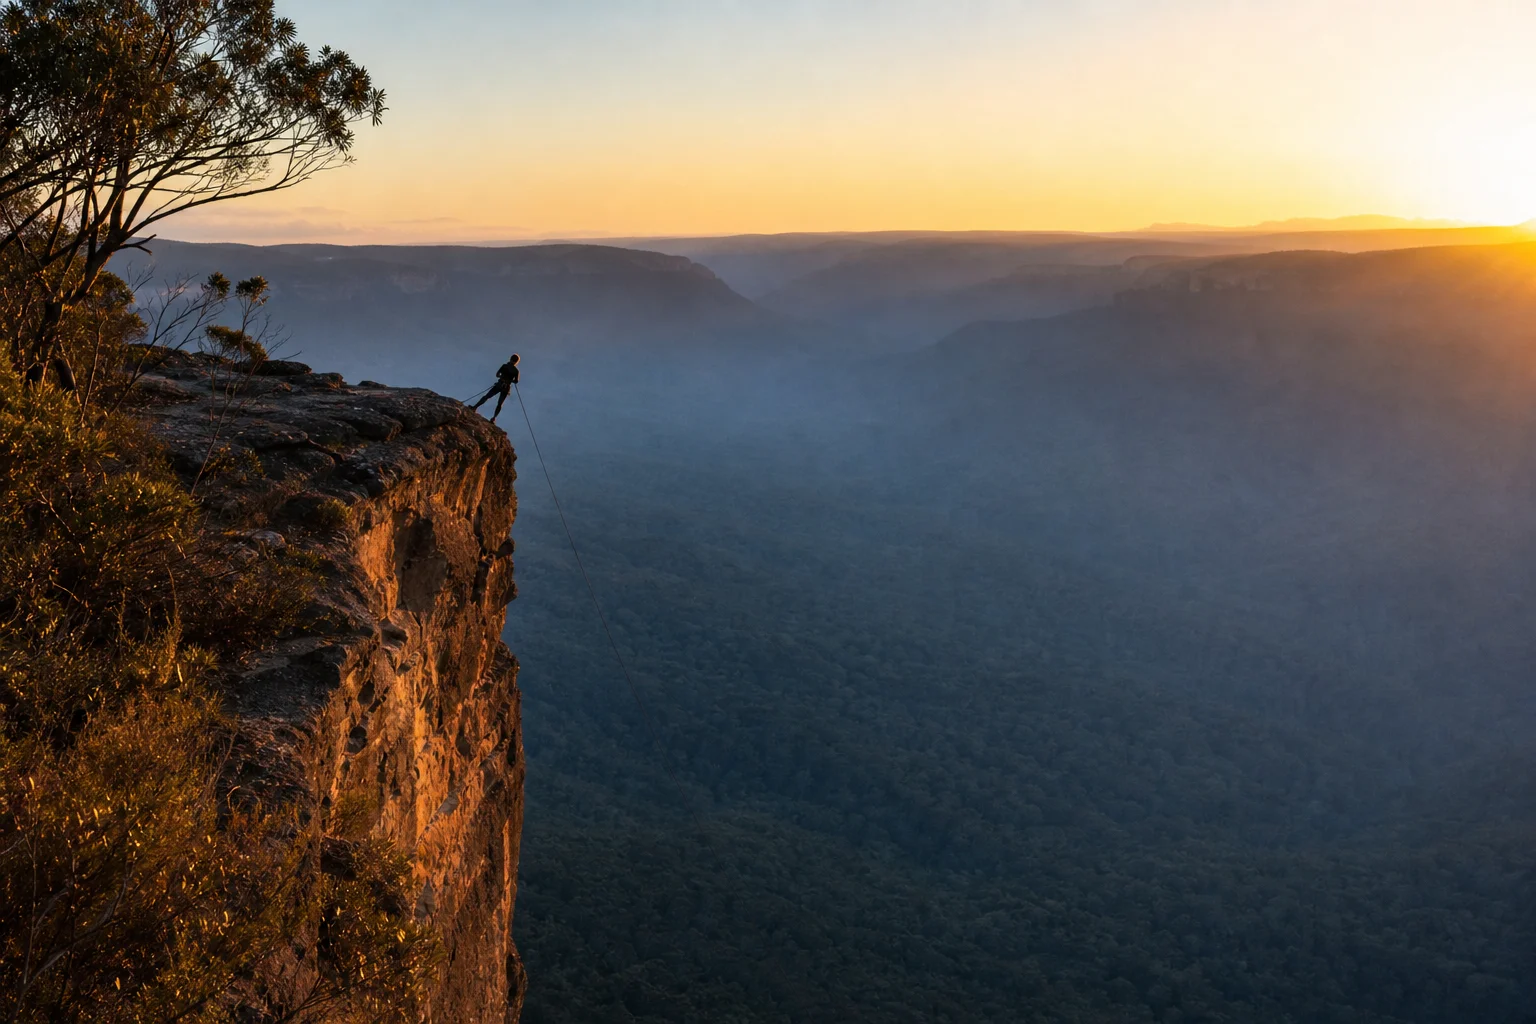
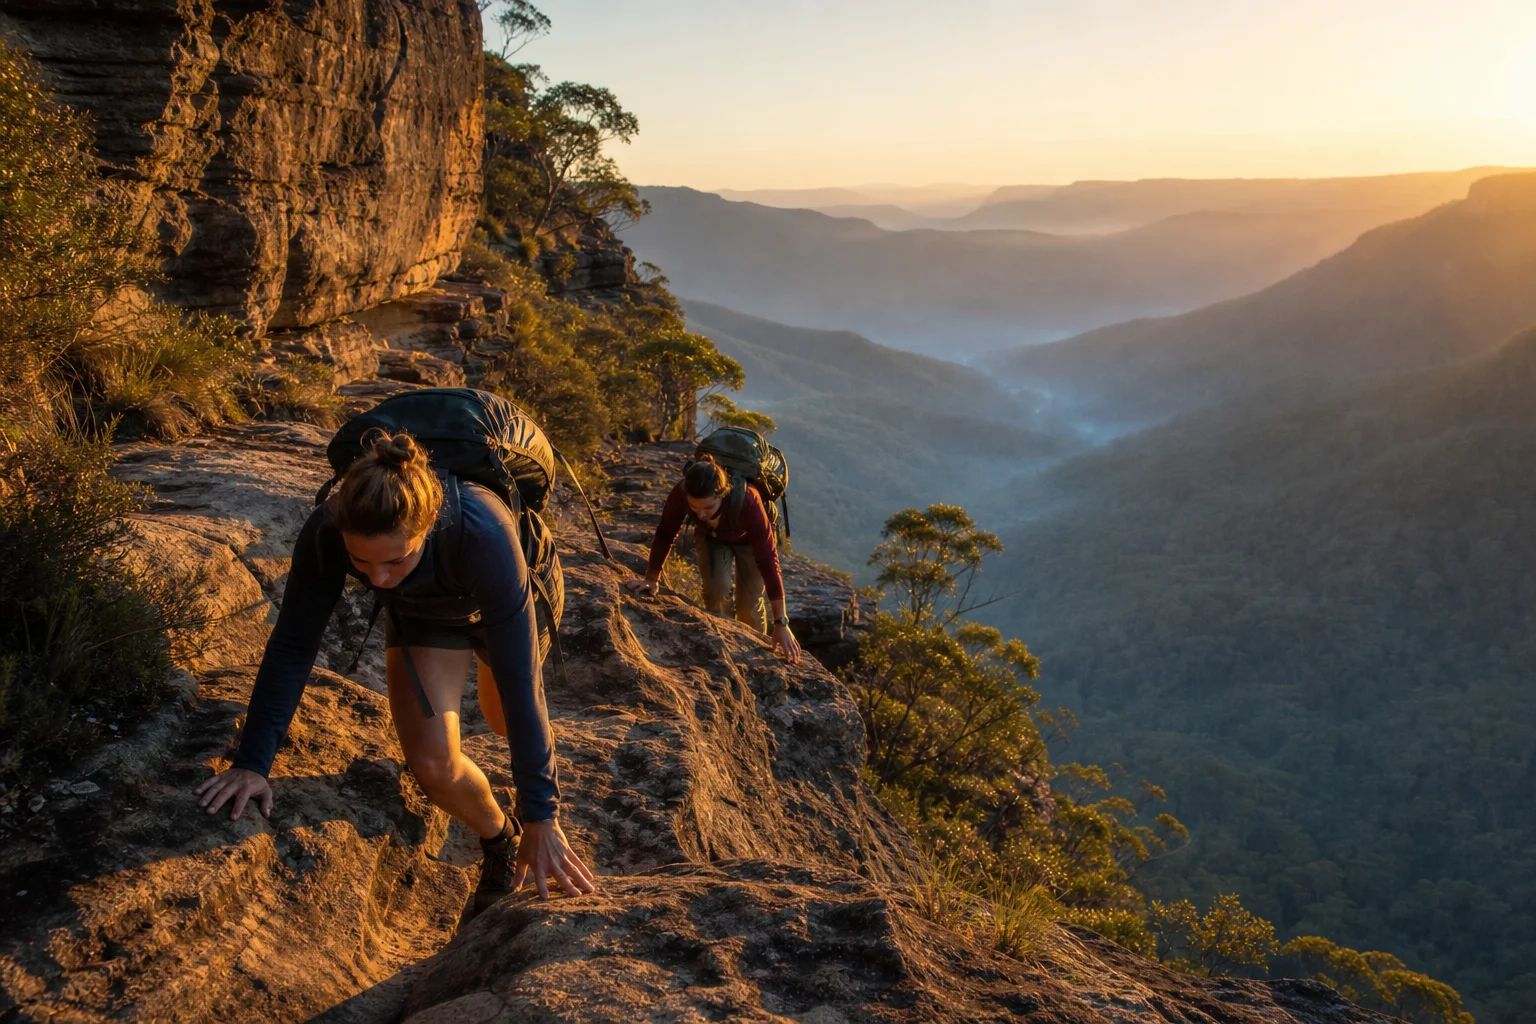
fix(content): hero QA pass — 3 images regenerated, 2 alt strings corrected
Adversarial review of all 27 generated heroes (one reviewer per 1-2 images, judged
at the 1140px they actually ship at, explicitly told NOT to lean-reject). Result:
21 PASS, 5 MINOR, 1 FAIL. Every finding below was confirmed by hand before acting.

Regenerated (real defects, both visible to a climbing audience):
- best-adventure-travel-destinations: the abseil rope ran ruler-straight at ~20 deg
  off plumb, trailing out over the valley away from the face, on a level horizon
  with a verifiably vertical cliff -- so not camera roll and not wind. A hanging
  load hangs plumb. Recomposed as scramblers on the escarpment edge: same exposure,
  no rope to render wrong, and a better fit for a destinations roundup anyway.
- se-queensland-bouldering: the climber had ONE LEG. The shorts ended in a sealed
  hem with bare ground visible behind, ~150x120px on the central subject. Horizontal
  roof positions leave limbs projecting with little to anchor them; recomposed
  upright with both feet planted on footholds.
- family-adventure-holidays: an orphan bare forearm floated behind the left child's
  shoulder. Recomposed with two swimmers instead of three -- less overlap, fewer
  spare limbs.

Alt text corrected (image fine, description wasn't -- these are a11y defects):
- kangaroo-point: alt claimed "abseiling and top-roping" when nobody in the frame
  is descending and no rope or harness is visible on either climber.
[…]

diff --git a/src/content/blog/kangaroo-point-rock-climbing-the-complete-guide-to-brisbanes-iconic-cliffs.md b/src/content/blog/kangaroo-point-rock-climbing-the-complete-guide-to-brisbanes-iconic-cliffs.md
@@ -3,7 +3,7 @@ title: "Kangaroo Point Rock Climbing: The Complete Guide to Brisbane's Iconic Cl
 description: "Kangaroo Point Cliffs are Brisbane's floodlit inner-city crag on the Brisbane River, managed by Brisbane City Council. Free access, night climbing, abseiling and safety."
 pubDate: "2026-07-26"
 heroImage: "/images/2026/07/kangaroo-point-rock-climbing-the-complete-guide-to-brisbanes-iconic-cliffs.webp"
-heroAlt: "Climbers abseiling and top-roping the floodlit Kangaroo Point cliffs at night, city lights across the river"
+heroAlt: "Climbers on the floodlit Kangaroo Point cliffs at night, with walkers on the riverside path and city lights across the water"
 draft: false
 tags: ["rock climbing", "queensland"]
 featured: false

diff --git a/src/content/blog/se-queensland-bouldering-a-guide-to-the-best-problems-near-brisbane.md b/src/content/blog/se-queensland-bouldering-a-guide-to-the-best-problems-near-brisbane.md
@@ -3,7 +3,7 @@ title: "SE Queensland Bouldering: A Guide to the Best Problems Near Brisbane"
 description: "Outdoor bouldering near Brisbane: Toohey Forest, White Rock and the Granite Belt around Girraween. Areas, grades, access rules and pad-and-spotter safety."
 pubDate: "2026-07-26"
 heroImage: "/images/2026/07/se-queensland-bouldering-a-guide-to-the-best-problems-near-brisbane.webp"
-heroAlt: "A boulderer pulling through a low overhang above a crash pad while a spotter stands ready"
+heroAlt: "A boulderer reaching for a high hold on a granite boulder, both feet on the rock, a crash pad and spotter below"
 draft: false
 tags: ["rock climbing", "queensland"]
 featured: false

diff --git a/src/content/blog/best-adventure-travel-destinations-in-australia-the-pacific-2026.md b/src/content/blog/best-adventure-travel-destinations-in-australia-the-pacific-2026.md
@@ -3,7 +3,7 @@ title: "Best Adventure Travel Destinations in Australia & the Pacific (2026)"
 description: "A regional roundup of the best adventure travel destinations across Australia & the Pacific: signature activities, who each suits, and when to go."
 pubDate: "2026-07-26"
 heroImage: "/images/2026/07/best-adventure-travel-destinations-in-australia-the-pacific-2026.webp"
-heroAlt: "An abseiler stepping backwards over the lip of an Australian sandstone cliff above a hazy valley"
+heroAlt: "Two walkers scrambling along a rocky sandstone escarpment edge at sunrise above a valley filled with blue haze"
 draft: false
 tags: ["adventure travel", "australia"]
 featured: false

diff --git a/src/content/blog/best-time-to-visit-australia-the-pacific-for-adventure-activities.md b/src/content/blog/best-time-to-visit-australia-the-pacific-for-adventure-activities.md
@@ -3,7 +3,7 @@ title: "Best Time to Visit Australia & the Pacific for Adventure Activities"
 description: "When to visit Australia & the Pacific for adventure: dry vs wet tropics, four-season south, and the South Pacific cyclone season, by month and region."
 pubDate: "2026-07-26"
 heroImage: "/images/2026/07/best-time-to-visit-australia-the-pacific-for-adventure-activities.webp"
-heroAlt: "Two climbers on a sunlit Australian sandstone cliff in cool clear autumn conditions"
+heroAlt: "A climber on a sunlit Australian sandstone cliff in clear autumn light while two others watch from the base"
 draft: false
 tags: ["adventure travel", "australia"]
 featured: false

diff --git a/src/content/blog/family-adventure-holidays-in-australia-activities-by-age-group.md b/src/content/blog/family-adventure-holidays-in-australia-activities-by-age-group.md
@@ -3,7 +3,7 @@ title: "Family Adventure Holidays in Australia: Activities by Age Group"
 description: "Family adventure holidays in Australia, mapped by age group: toddlers to teens. Suitable activities, safety notes and what to check with operators."
 pubDate: "2026-07-26"
 heroImage: "/images/2026/07/family-adventure-holidays-in-australia-activities-by-age-group.webp"
-heroAlt: "A parent and two children snorkelling in shallow clear water over a rocky reef"
+heroAlt: "A parent and child snorkelling side by side in shallow clear water over a rocky reef"
 draft: false
 tags: ["adventure travel", "australia"]
 featured: false
